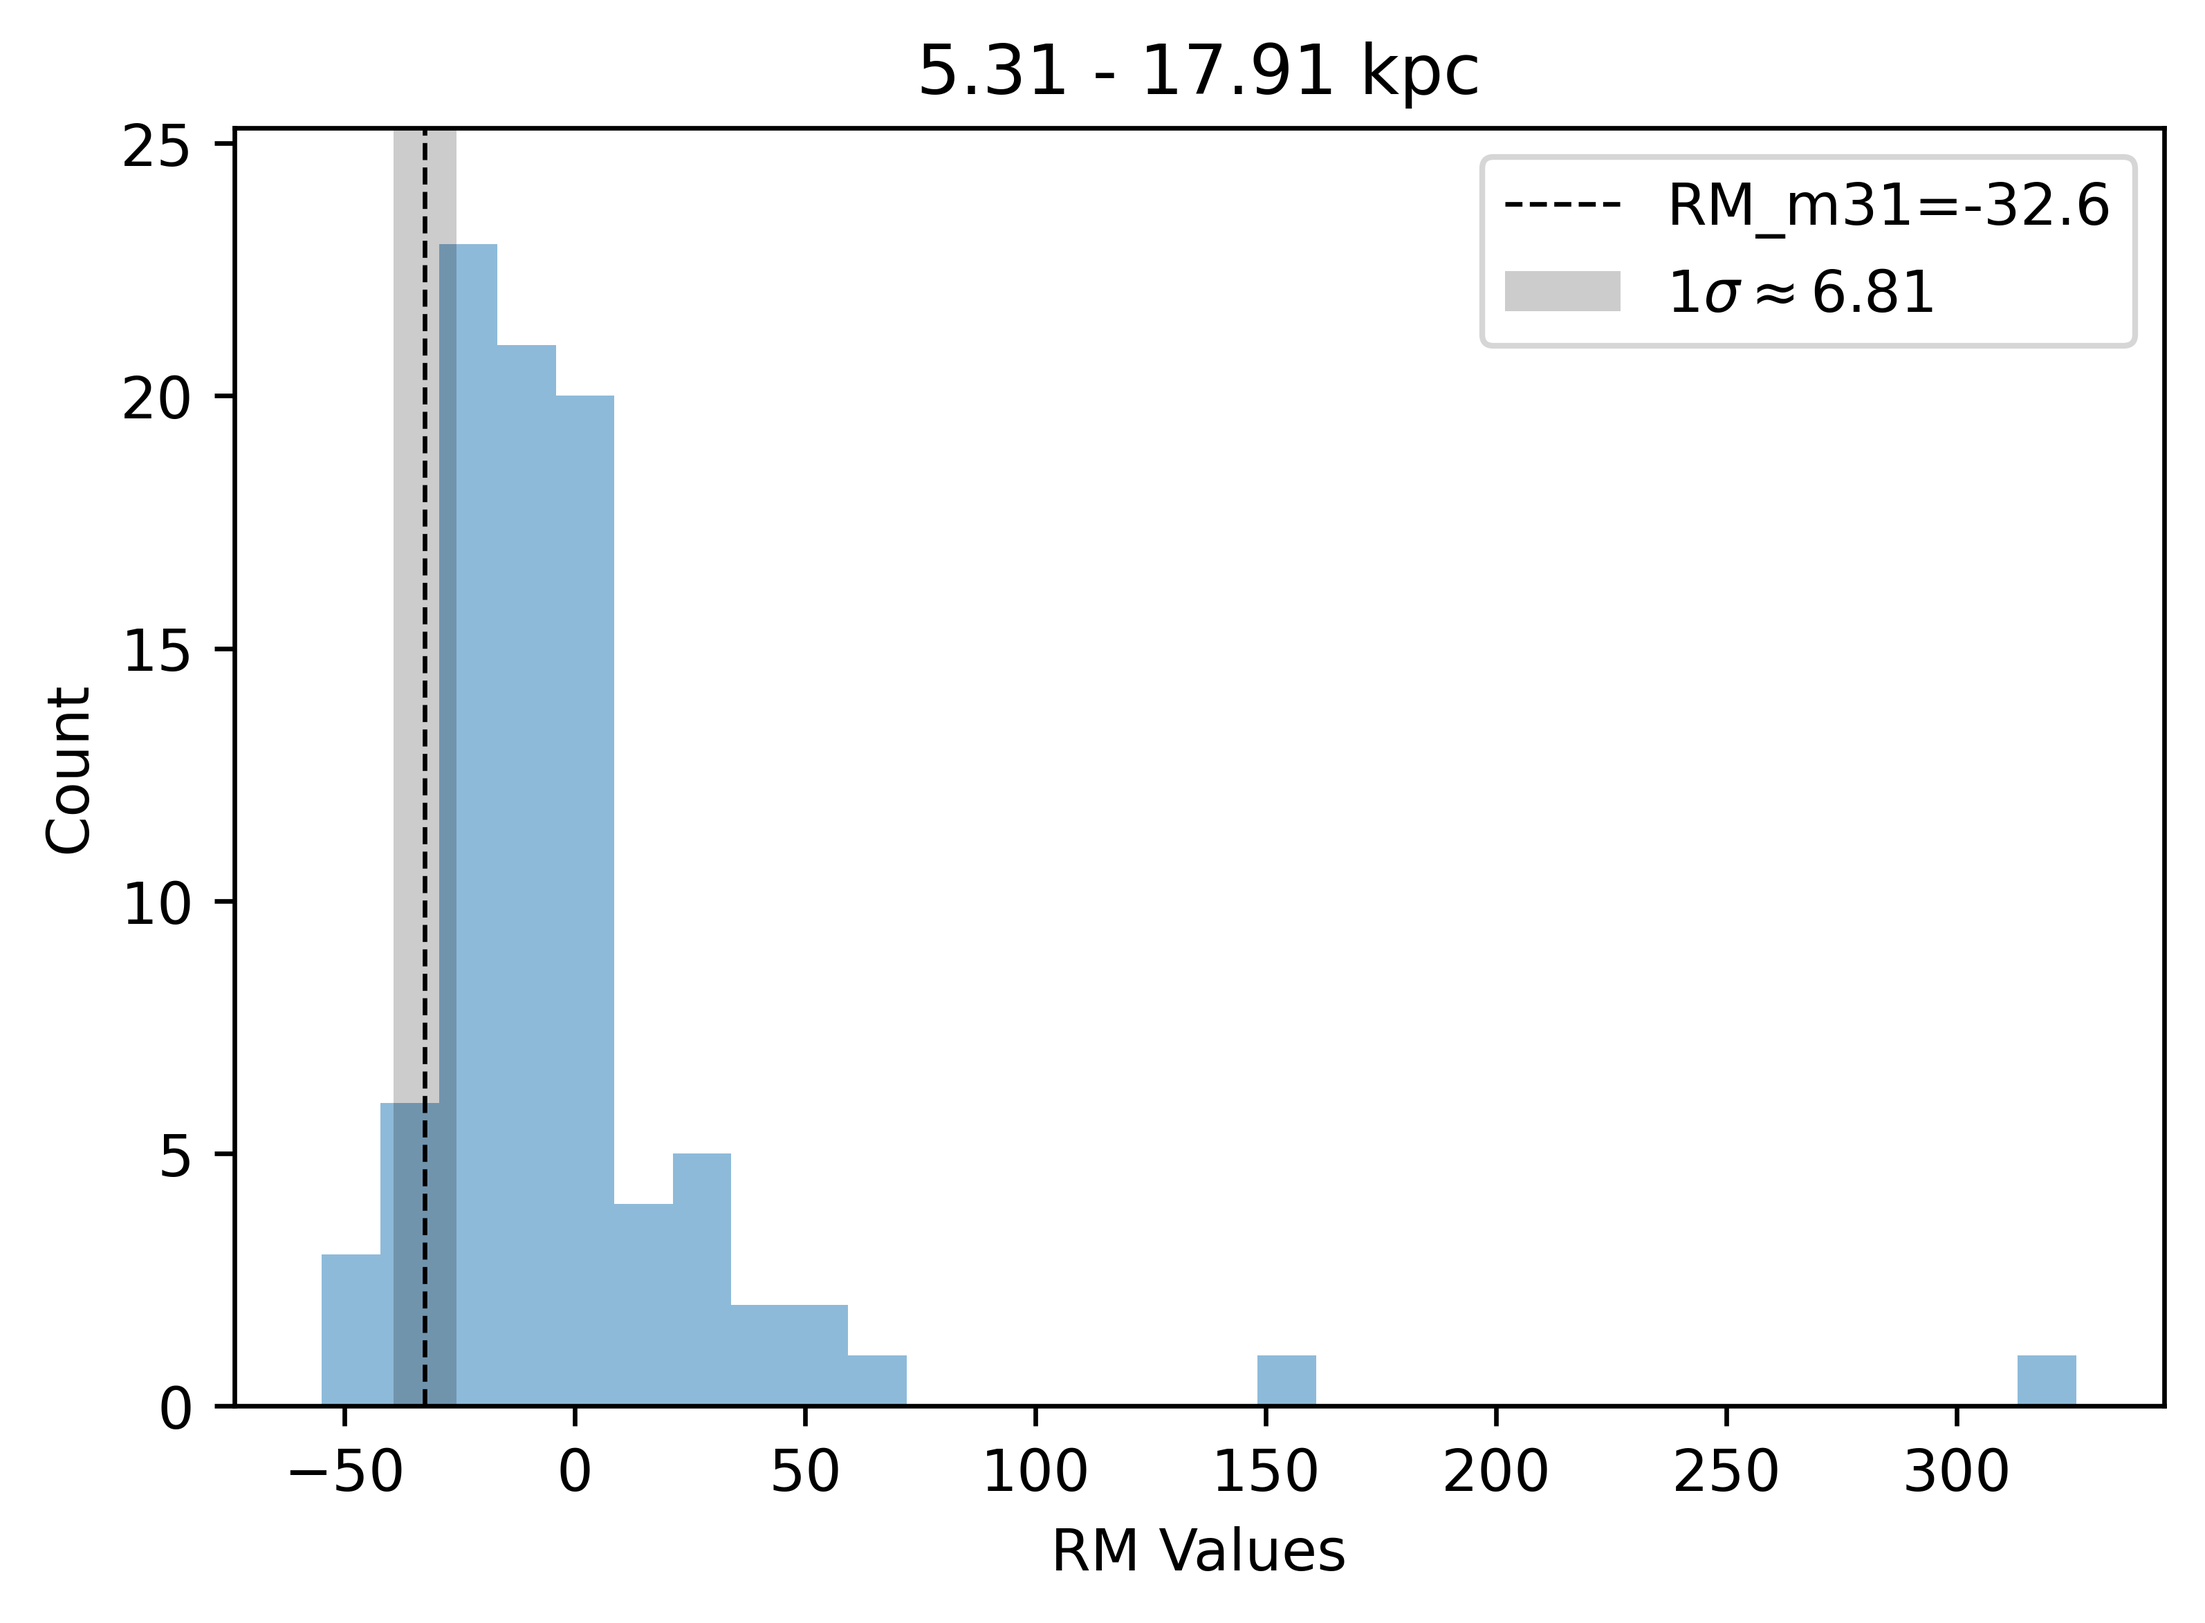
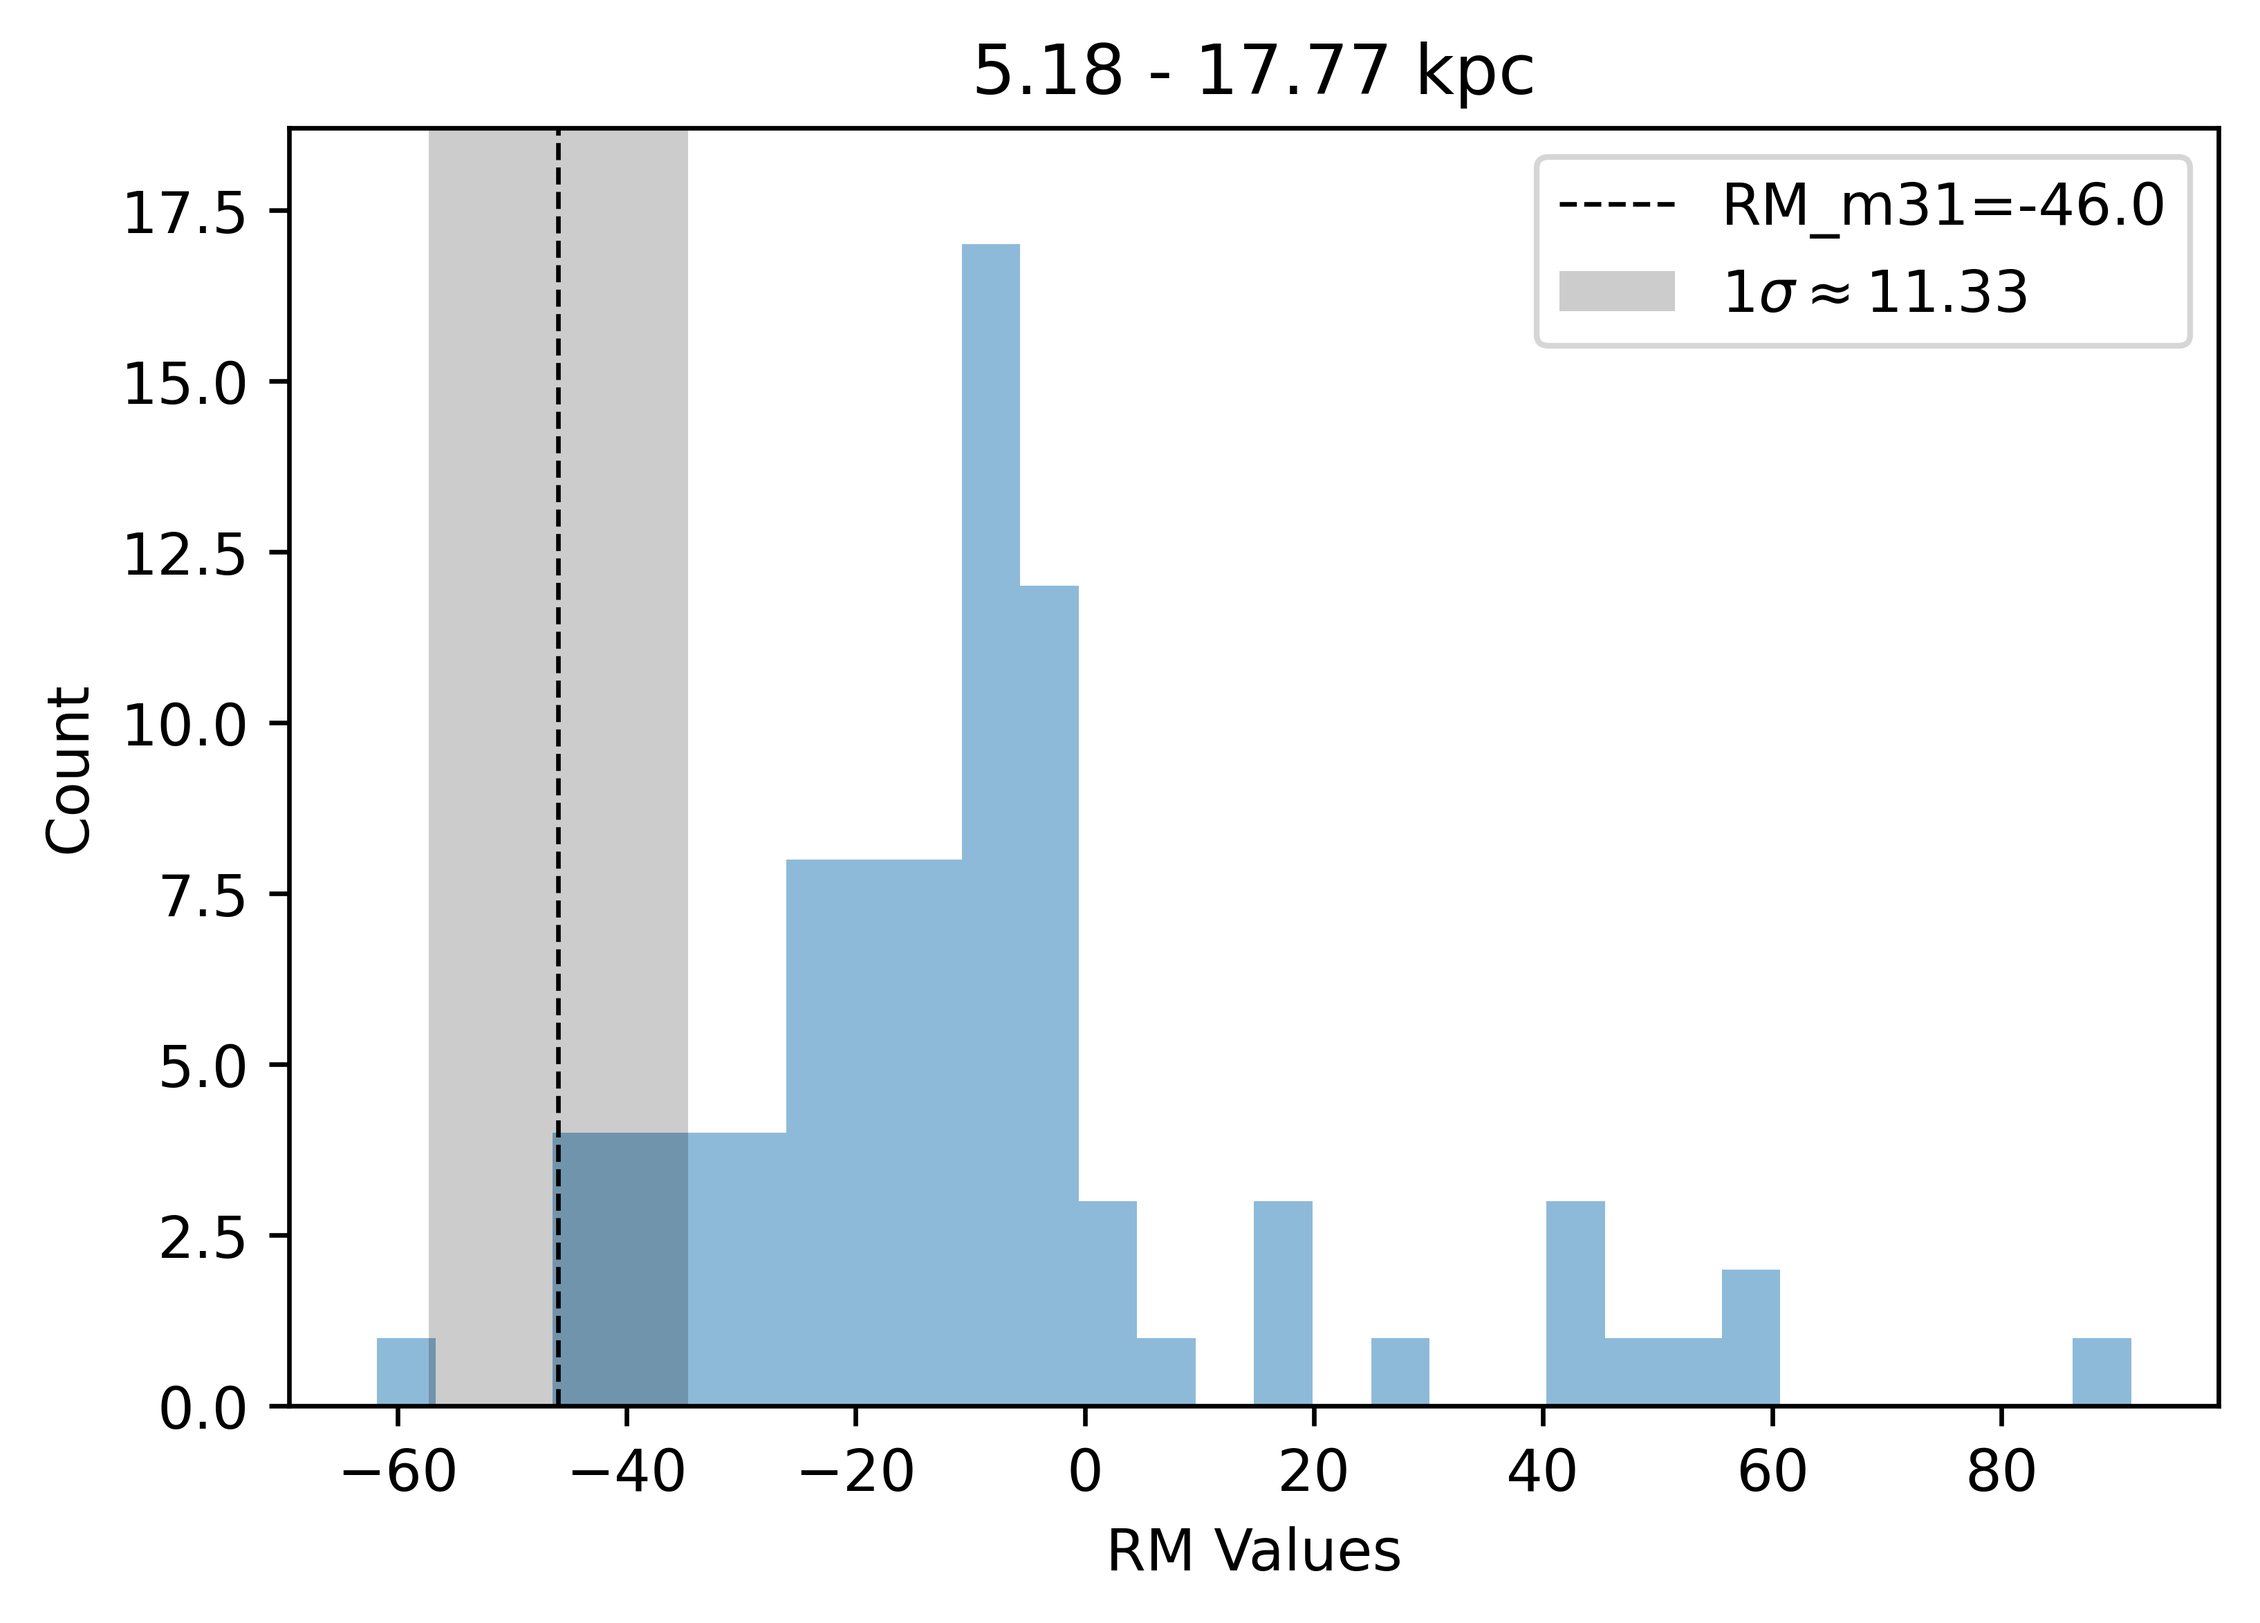
making sure it works with 62 patches alone

diff --git a/M31_signal_vs_entire_sky.py b/M31_signal_vs_entire_sky.py
@@ -22,7 +22,10 @@ bin_med as bin_med_m31,
 rm, rm_err, eq_pos,
 m31_sep_Rvir, rm_m31,
 bin_num as bin_num_from_main,
-R_vir,
+bin_std_past_rvir, L_m31,
+
+#Thes eare statisics for the entire sepration from m31 center to all 
+bin_means_past_rvir, bin_edges_past_rvir, binnumber_past_rvir,
 
 #importing functions
 get_projected_d_old, confining_circle
@@ -243,29 +246,30 @@ def annuli_analysis(save_plot=False, stack_indiv_patch=False): #Plots by default
 
         annuli_to_plot = np.arange(0, 31)  # Adjusting annuli ranges based on bin edges (in kpc) (Limit is Virial Radius)
 
+        anul_dist_type = "deg" if stack_indiv_patch else "kpc"
+        b_m = bin_means_m31 if stack_indiv_patch else bin_means_past_rvir #whether bin_mean or bin_median
+        std = bin_std_m31 if stack_indiv_patch else bin_std_past_rvir
+
         for bin_idx in annuli_to_plot:
             plt.figure(figsize=(6, 4))
             if bin_idx in rm_per_annulus:
                 counts, _, _ = plt.hist(rm_per_annulus[bin_idx], bins=30, alpha=0.5)
-                plt.title(f"{bin_edges[bin_idx-1]:.2f} - {bin_edges[bin_idx]:.2f} kpc")
+                plt.title(f"{bin_edges[bin_idx-1]:.2f} - {bin_edges[bin_idx]:.2f} "+ anul_dist_type)
                 plt.xlabel("RM Values")
                 plt.ylabel("Count")
                 plt.ylim(0, np.max(counts) * 1.1)
-
+                
                 #Comparing with relative annulus around M31
-                plt.axvline(x=bin_means_m31[bin_idx-1], 
-                            label=f"RM_m31={bin_means_m31[bin_idx-1]:.1f}",
+                plt.axvline(x=b_m[bin_idx-1], 
+                            label=f"RM_m31={b_m[bin_idx-1]:.1f}",
                             color='k', linestyle='--', linewidth=.8)
                 
                 # Filling the region around the mean RM value within 1 sigma
                 plt.fill_betweenx(y=np.linspace(0, plt.ylim()[1], 100),  #Filling along y-axis
-                    x1=bin_means_m31[bin_idx-1] - bin_std_m31[bin_idx-1],
-                    x2=bin_means_m31[bin_idx-1] + bin_std_m31[bin_idx-1],
+                    x1=b_m[bin_idx-1] - std[bin_idx-1],
+                    x2=b_m[bin_idx-1] + std[bin_idx-1],
                     color='k', alpha=0.2, edgecolor="none",
-                    label=r"$1\sigma \approx {:.2f}$".format(bin_std_m31[bin_idx-1]))
-
-                # print(bin_idx)
-                # print(bin_means_m31[bin_idx-1])
+                    label=r"$1\sigma \approx {:.2f}$".format(std[bin_idx-1]))
 
                 plt.legend()
                 if save_plot: 

diff --git a/main.py b/main.py
@@ -102,7 +102,7 @@ m31_sep_Rvir = (m31_sep.deg[m31_condition])*u.deg #Record m31's RM separated val
 err_m31 = rm_err[m31_condition] #Record m31's RM errors
 
 # #Subtracting mean RM outside of Rvir (backgorund) from all RM belonging to m31's CGM.  
-rm_m31-= np.average(rm_bg) 
+rm_m31-= np.average(rm_bg)
 rm_bg-= np.average(rm_bg) #Doing same forbackground itself
 rm -= np.average(rm_bg) #for all rm readings
 
@@ -112,6 +112,14 @@ rm -= np.average(rm_bg) #for all rm readings
 bin_num = 30
 #Calculate mean of RM values within Rvir of M31
 bin_means, bin_edges, binnumber = stats.binned_statistic(m31_sep_Rvir, rm_m31, statistic = 'mean', bins = bin_num)
+
+#Calculate mean of RM values within Rvir of M31 (inclusive of background RM for R_vir)
+(bin_means_past_rvir, 
+bin_edges_past_rvir, 
+binnumber_past_rvir )= stats.binned_statistic(
+    np.concatenate([m31_sep_Rvir,m31_sep_bg]), 
+    np.concatenate([rm_m31,rm_bg]), 
+    statistic = 'mean', bins = bin_num)
 
 #bin median isnt used anywhere yet.
 bin_med, bin_edges, binnumber = stats.binned_statistic(m31_sep_Rvir, rm_m31, statistic = 'median', bins = bin_num)
@@ -139,6 +147,15 @@ bin_std, bin_edges, binnumber = stats.binned_statistic(m31_sep_Rvir,
     rm_m31, 
     statistic = lambda rm_m31: stats.sem(rm_m31), #Standard Error ofMean
     bins = bin_num)  
+
+#Using standard error of mean for error bars:  (inclusive of background RM for R_vir)
+(bin_std_past_rvir, 
+bin_edges_past_rvir, 
+binnumber_past_rvir )= stats.binned_statistic(
+    np.concatenate([m31_sep_Rvir,m31_sep_bg]), 
+    np.concatenate([rm_m31,rm_bg]), 
+    statistic = lambda rm_m31: stats.sem(rm_m31), #Standard Error ofMean
+    bins = bin_num) 
     
 #Calculating polar angles
 shift = 180*u.deg
